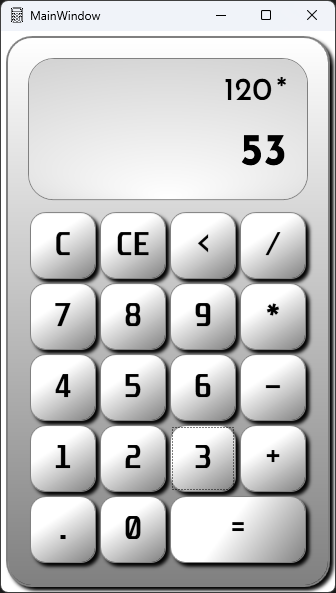
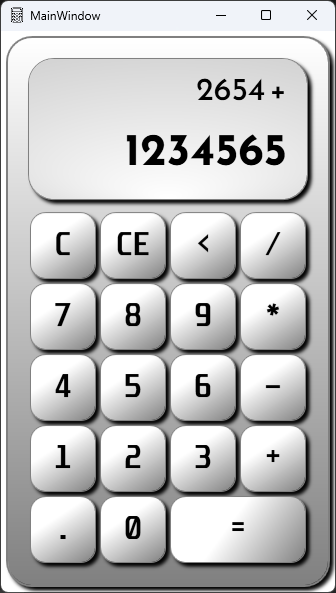
Add screen effect and preview.png update

diff --git a/WpfAppCalculator/CalculatorWindow.xaml b/WpfAppCalculator/CalculatorWindow.xaml
@@ -68,6 +68,11 @@
             <Setter Property="CornerRadius" Value="25"/>
             <Setter Property="BorderThickness" Value="1"/>
             <Setter Property="BorderBrush" Value="Gray"/>
+            <Setter Property="Effect">
+                <Setter.Value>
+                    <DropShadowEffect/>
+                </Setter.Value>
+            </Setter>
         </Style>
         <Style TargetType="TextBlock" x:Key="curNumTextBlockStyle">
             <Setter Property="FontSize" Value="45"/>
